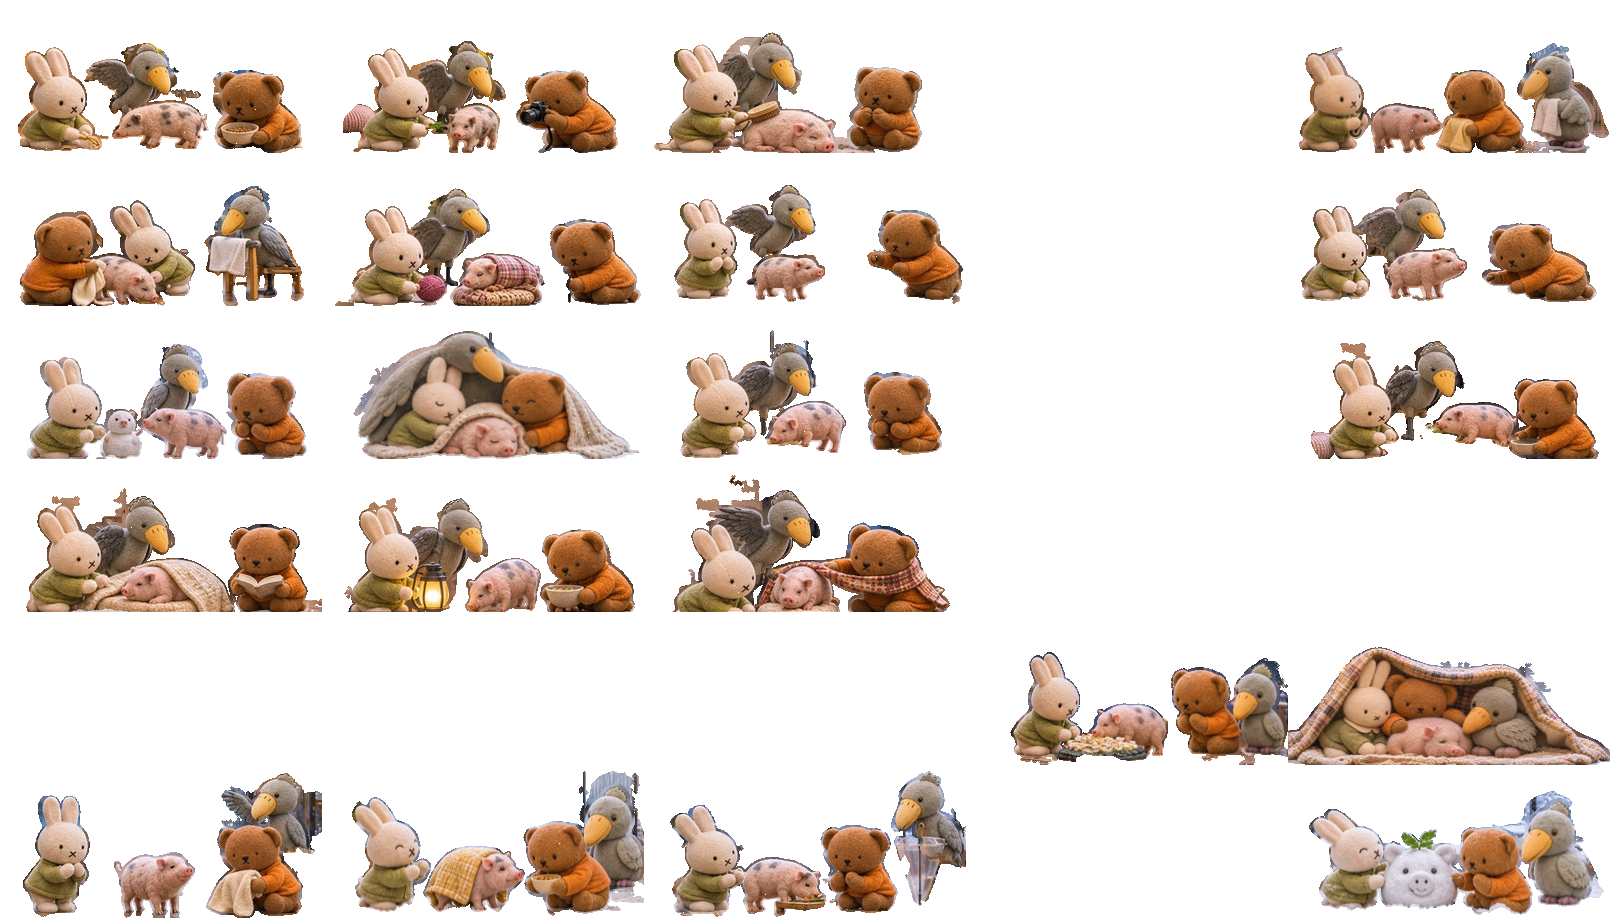
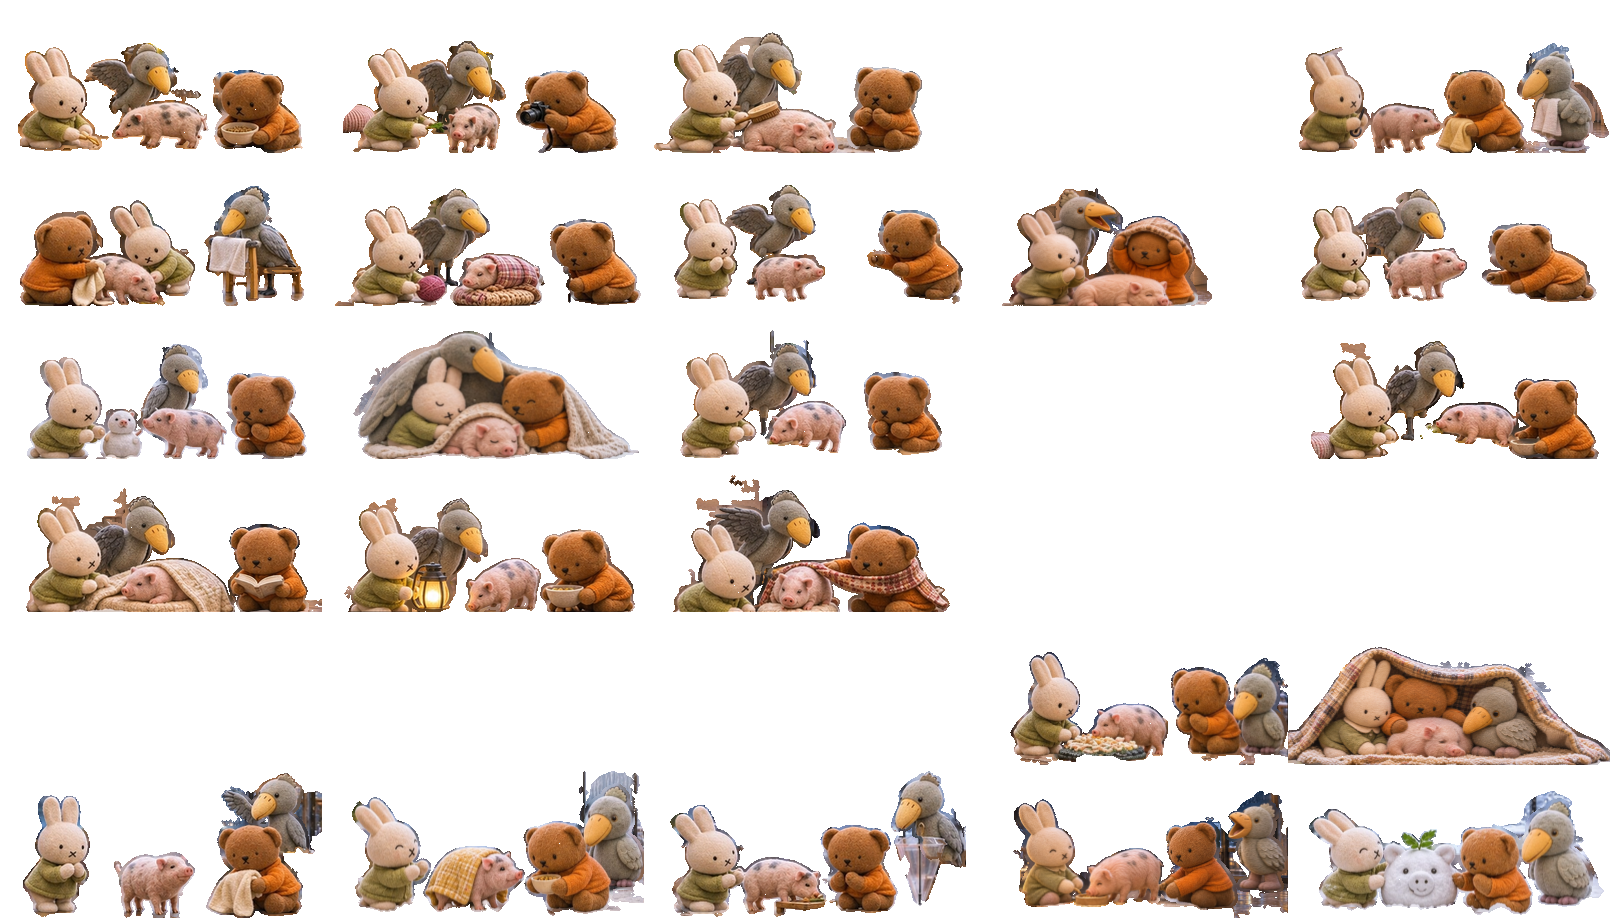
Publish 2975 verified travel weather illustrations

Changed region(s): [[0.6211, 0.854, 0.8075, 1.0], [0.6211, 0.183, 0.7764, 0.3355]]

diff --git a/trip-scenery.js b/trip-scenery.js
@@ -107,15 +107,15 @@ const TripScenery = (() => {
     "chitose":{"rev":"2c0921813e0d","tiles":[7]},
     "chitose-b":{"rev":"5897703c015b","tiles":[0,1,2,3,4,5,6,7,8,9,10,11,12,13,14,15,16,17,18,19,20,21,22,23,24,25,26,27,28,29]},
     "cranes":{"rev":"9dbd65e7429f","tiles":[14]},
-    "cranes-b":{"rev":"837263592452","tiles":[0,1,2,3,4,5,6,7,8,9,10,11,12,13,14,15,16,18,19,20,22,23,24,25,26,27,28,29]},
+    "cranes-b":{"rev":"4de6cace1270","tiles":[0,1,2,3,4,5,6,7,8,9,10,11,12,13,14,15,16,17,18,19,20,21,22,23,24,25,26,27,28,29]},
     "default":{"rev":"63680098c4db","tiles":[1,7,9,13,16]},
     "default-b":{"rev":"2a38596f457e","tiles":[0,1,2,3,4,5,6,7,8,9,10,11,12,13,14,15,17,18,19,20,21,22,23,26,28,29]},
     "farm":{"rev":"2758f42d4239","tiles":[4,7,8,11,13]},
     "farm-b":{"rev":"979350bb41c0","tiles":[0,1,2,3,4,5,6,7,8,9,10,11,12,13,14,15,16,17,18,19,20,21,22,23,24,25,26,27,28,29]},
     "furano":{"rev":"8d89f832a68d","tiles":[14]},
-    "furano-b":{"rev":"464f6e2499f7","tiles":[1,2,3,4,5,6,7,8,9,10,11,12,13,15,16,17,18,19,20,21,22,23,24,25,26,27,28]},
+    "furano-b":{"rev":"52c341b967ea","tiles":[0,1,2,3,4,5,6,7,8,9,10,11,12,13,14,15,16,17,18,19,20,21,22,23,24,25,26,27,28,29]},
     "haneda":{"rev":"627adc008342","tiles":[4,10,12]},
-    "haneda-b":{"rev":"179e59ead46d","tiles":[0,1,2,3,4,5,6,9,10,11,12,13,15,16,17,19,20,21,22,23,24,25,26,28,29]},
+    "haneda-b":{"rev":"4b766e8f2b7e","tiles":[0,1,2,3,4,5,6,9,10,11,12,13,14,15,16,17,19,20,21,22,23,24,25,26,28,29]},
     "hkairport":{"rev":"811bca323825","tiles":[1]},
     "hkairport-b":{"rev":"40f4251a35a7","tiles":[0,1,2,3,4,5,6,7,9,10,11,12,13,14,15,16,17,18,19,20,21,22,23,24,25,26,27,28,29]},
     "hongkong":{"rev":"1c5206374d36","tiles":[1,3,13]},
@@ -125,13 +125,13 @@ const TripScenery = (() => {
     "kushiro":{"rev":"ba38cfd09b0c","tiles":[0,3,7,16,18,19]},
     "kushiro-b":{"rev":"ebb67b2e06f4","tiles":[0,1,2,3,4,5,6,7,8,9,10,11,12,13,14,15,16,17,18,19,20,21,22,23,24,25,26,27,28,29]},
     "kussharo":{"rev":"93c2e99f0902","tiles":[4,7]},
-    "kussharo-b":{"rev":"700f16087a49","tiles":[0,1,2,3,4,5,6,7,8,9,10,11,12,13,14,15,16,18,19,20,21,22,23,24,25,26,27,28,29]},
+    "kussharo-b":{"rev":"9944c161d983","tiles":[0,1,2,3,4,5,6,7,8,9,10,11,12,13,14,15,16,17,18,19,20,21,22,23,24,25,26,27,28,29]},
     "marsh":{"rev":"06ee2357488e","tiles":[4,10]},
     "marsh-b":{"rev":"34a770e3b67f","tiles":[0,1,2,3,5,6,7,8,10,12,13,14,15,16,18,19,20,21,22,23,24,25,26,28,29]},
     "moere":{"rev":"a93c0904ed41","tiles":[1,4,7,14,17]},
     "moere-b":{"rev":"e53cc7e00f9a","tiles":[0,1,2,3,4,5,6,7,8,9,10,11,12,13,14,15,16,17,18,19,20,21,22,24,25,26,27,28]},
     "narita":{"rev":"8975a1809016","tiles":[11,12,15]},
-    "narita-b":{"rev":"9d28ac20aee4","tiles":[0,2,3,4,5,6,7,8,9,10,11,12,14,15,18,20,22,23,24,25,26,27,28,29]},
+    "narita-b":{"rev":"fae280164689","tiles":[0,2,3,4,5,6,7,8,9,10,11,12,13,14,15,18,20,22,23,24,25,26,27,28,29]},
     "obihiro":{"rev":"1c28bd332a3d","tiles":[7,13,18]},
     "obihiro-b":{"rev":"321af68bc5af","tiles":[0,1,7,9,10,11,12,13,14,15,17,18,19,20,21,22,23,24,25,26,27,28]},
     "otaru":{"rev":"3791dd540955","tiles":[9]},
@@ -139,11 +139,11 @@ const TripScenery = (() => {
     "roppongi":{"rev":"ee08e606e29f","tiles":[12]},
     "roppongi-b":{"rev":"227d141bdd86","tiles":[1,2,3,4,5,6,7,8,9,10,11,12,13,14,15,16,18,20,21,22,23,26,27,28,29]},
     "rusutsu":{"rev":"15835914c6d3","tiles":[7,11,13,16,18]},
-    "rusutsu-b":{"rev":"4d9885ba3316","tiles":[0,2,3,4,5,6,8,9,12,13,14,15,17,19,22,25,27,29]},
+    "rusutsu-b":{"rev":"e7a5014ac2b8","tiles":[0,2,3,4,5,6,8,9,12,13,14,15,16,17,19,22,25,27,29]},
     "sapporo":{"rev":"e925743f436f","tiles":[9]},
     "sapporo-b":{"rev":"5740a0a2757d","tiles":[0,5,6,7,8,9,10,11,13,14,15,17,18,19,21,22,23,24,25,26,27,28,29]},
     "spot-027c9d1e1":{"rev":"ffc74a33bb42","tiles":[0,9,16]},
-    "spot-027c9d1e1-b":{"rev":"3d33059926cc","tiles":[0,1,2,3,6,7,8,9,10,11,12,13,14,15,16,17,18,19,20,21,22,24,25,26,27,29]},
+    "spot-027c9d1e1-b":{"rev":"086938d54552","tiles":[0,1,2,3,5,6,7,8,9,10,11,12,13,14,15,16,17,18,19,20,21,22,24,25,26,27,29]},
     "spot-06158d8b5":{"rev":"a04051825e6b","tiles":[10,12,13]},
     "spot-06158d8b5-b":{"rev":"43ece873eb3f","tiles":[1,2,3,4,5,7,8,9,10,12,13,15,16,17,18,19,20,21,22,23,25,26,28,29]},
     "spot-10e7818ff":{"rev":"b81ab9cee190","tiles":[7]},
@@ -164,9 +164,9 @@ const TripScenery = (() => {
     "spot-269608d5a":{"rev":"fe0e7d68ff92","tiles":[2,14]},
     "spot-269608d5a-b":{"rev":"90e6aee6142c","tiles":[1,4,5,6,7,8,9,12,13,15,16,18,19,20,21,22,23,26,27,28]},
     "spot-29d2293a9":{"rev":"ff2c5802e46d","tiles":[9]},
-    "spot-29d2293a9-b":{"rev":"20e31dbd697c","tiles":[3,4,5,6,7,9,10,11,12,13,14,15,16,17,18,19,20,22,23,24,25,26,27,28,29]},
+    "spot-29d2293a9-b":{"rev":"fd8181632a91","tiles":[3,4,5,6,7,9,10,11,12,13,14,15,16,17,18,19,20,21,22,23,24,25,26,27,28,29]},
     "spot-2e38dcad4":{"rev":"de1a9beaeb6c","tiles":[11,12]},
-    "spot-2e38dcad4-b":{"rev":"61fe9c4ba783","tiles":[0,1,2,4,5,6,7,9,10,11,12,14,15,16,17,23,24,25,26,27,29]},
+    "spot-2e38dcad4-b":{"rev":"dc7043261259","tiles":[0,1,2,4,5,6,7,8,9,10,11,12,14,15,16,17,23,24,25,26,27,28,29]},
     "spot-31c4556cc":{"rev":"a81956a4427b","tiles":[13,14]},
     "spot-31c4556cc-b":{"rev":"97cc430c4588","tiles":[0,1,2,3,4,5,6,7,8,9,10,11,12,13,14,15,16,17,18,19,20,21,22,23,24,25,26,27,28,29]},
     "spot-330159020-b":{"rev":"27f5305b8a80","tiles":[0,7,8,10,17,22,25,29]},
@@ -175,11 +175,11 @@ const TripScenery = (() => {
     "spot-3c6782d38":{"rev":"95e40e1907f0","tiles":[13,14]},
     "spot-3c6782d38-b":{"rev":"25bb671c7c46","tiles":[0,1,2,3,4,5,6,7,8,9,10,11,12,13,14,15,16,17,18,19,20,21,22,23,24,25,27,28,29]},
     "spot-3f5a2f8fc":{"rev":"f086f04ef697","tiles":[0,1,2,3,7,13,16,17,18,19]},
-    "spot-3f5a2f8fc-b":{"rev":"8f804bb38c8f","tiles":[0,1,3,4,5,6,7,8,9,10,11,12,13,14,15,16,17,18,19,20,21,22,23,24,25,26,27,28,29]},
+    "spot-3f5a2f8fc-b":{"rev":"89f176ae1bd1","tiles":[0,1,2,3,4,5,6,7,8,9,10,11,12,13,14,15,16,17,18,19,20,21,22,23,24,25,26,27,28,29]},
     "spot-3fb8e59e3":{"rev":"c785d47e5bd2","tiles":[0,3,4,5,6,7,8,10,11,12,14,15,16,19]},
-    "spot-3fb8e59e3-b":{"rev":"fc7726badd6c","tiles":[0,1,2,3,4,5,6,7,8,9,10,11,12,13,14,15,16,17,18,19,20,21,22,23,24,25,26,28,29]},
+    "spot-3fb8e59e3-b":{"rev":"760b3e167f69","tiles":[0,1,2,3,4,5,6,7,8,9,10,11,12,13,14,15,16,17,18,19,20,21,22,23,24,25,26,27,28,29]},
     "spot-41089f741":{"rev":"8e1833296fca","tiles":[10]},
-    "spot-41089f741-b":{"rev":"e7aa3cd89bb8","tiles":[0,1,2,4,5,8,9,10,11,12,13,14,15,16,17,18,19,20,21,24,25,26,27,28]},
+    "spot-41089f741-b":{"rev":"89379b5a65b6","tiles":[0,1,2,3,4,5,8,9,10,11,12,13,14,15,16,17,18,19,20,21,24,25,26,27,28]},
     "spot-4238daf29":{"rev":"988d0f0b54b1","tiles":[0,2,4,5,6,7,8,9,10,11,12,13,14,15,17,18]},
     "spot-4238daf29-b":{"rev":"9ce5ea3f7159","tiles":[0,1,2,3,4,5,6,7,8,9,10,11,12,13,14,15,16,17,18,19,20,21,22,23,24,25,26,27,28,29]},
     "spot-4398c48a7":{"rev":"717ad5046dbd","tiles":[9,11,15]},
@@ -191,13 +191,15 @@ const TripScenery = (() => {
     "spot-48ff7da1d-b":{"rev":"b4345ead59bb","tiles":[0,1,2,4,5,6,7,8,9,10,11,12,13,21,26,27,29]},
     "spot-495afce62":{"rev":"0f11bee40ad2","tiles":[0,3,4,5,6,7,8,10,11,12,14,16,18,19]},
     "spot-495afce62-b":{"rev":"2c7b087412cb","tiles":[0,1,2,3,4,5,7,8,9,10,11,12,13,14,15,16,17,18,19,20,21,22,23,24,25,26,27,28,29]},
-    "spot-49779f027-b":{"rev":"bc2466217452","tiles":[3,22,23]},
+    "spot-49779f027-b":{"rev":"0b85585c7998","tiles":[3,14,22,23]},
     "spot-51652ebdc":{"rev":"adf2df6853ff","tiles":[9,13]},
     "spot-51652ebdc-b":{"rev":"bf53ba52ca8f","tiles":[5,6]},
     "spot-54f5ce43e":{"rev":"7b3805db985d","tiles":[16]},
     "spot-54f5ce43e-b":{"rev":"d91a96483961","tiles":[1,2,4,5,6,7,8,9,12,14,16,18,20,23,25,26,27,28]},
     "spot-569b08bba":{"rev":"081b3124469c","tiles":[4,5,7,8,10,12,14]},
-    "spot-569b08bba-b":{"rev":"06b8ca3341b3","tiles":[0,1,2,3,4,5,6,8,9,10,11,12,13,14,15,16,17,18,19,20,21,22,23,24,25,26,27,28,29]},
+    "spot-569b08bba-b":{"rev":"97df845a9e5d","tiles":[0,1,2,3,4,5,6,7,8,9,10,11,12,13,14,15,16,17,18,19,20,21,22,23,24,25,26,27,28,29]},
+    "spot-5724c004b":{"rev":"037f832574b0","tiles":[0,3,4,6,7,8,9,11,13,15,17]},
+    "spot-5724c004b-b":{"rev":"79f129e3231c","tiles":[0,2,4,6,8,10,13,16,19,21,23,25,28]},
     "spot-59c3d0ebd":{"rev":"7f8a63b309a1","tiles":[2,9,11,13,17]},
     "spot-5df3b4a31":{"rev":"99a3dba5bf36","tiles":[4]},
     "spot-627afeabe":{"rev":"852212a79865","tiles":[0,3,4,6,7,8,10,11,12,13,14,16,19]},
@@ -215,23 +217,23 @@ const TripScenery = (() => {
     "spot-79865f593":{"rev":"68a20e51f5c4","tiles":[0,8,9,12,13,16]},
     "spot-79865f593-b":{"rev":"8522d3815c0f","tiles":[0,1,2,3,4,5,6,7,8,9,10,12,13,14,15,16,17,18,19,20,21,22,23,25,26,27,28,29]},
     "spot-7c1b27ec2":{"rev":"a793d4916773","tiles":[4,7]},
-    "spot-7c1b27ec2-b":{"rev":"713fd4c9e36d","tiles":[0,1,2,3,4,5,6,7,8,9,10,12,13,14,15,16,17,18,19,20,21,22,23,24,25,26,27,28,29]},
+    "spot-7c1b27ec2-b":{"rev":"22e7666aa350","tiles":[0,1,2,3,4,5,6,7,8,9,10,11,12,13,14,15,16,17,18,19,20,21,22,23,24,25,26,27,28,29]},
     "spot-7fef43934":{"rev":"8d9ca06408b6","tiles":[9,13,18]},
     "spot-7fef43934-b":{"rev":"953d87069e7b","tiles":[0,1,2,3,4,5,6,7,8,9,10,11,12,13,14,15,16,17,18,19,20,21,22,23,24,25,26,27,28,29]},
     "spot-83a57353c":{"rev":"e5d2d321ff33","tiles":[7,13]},
     "spot-83a57353c-b":{"rev":"39bcc56641c9","tiles":[0,1,2,3,4,5,6,7,8,9,10,11,12,13,14,15,16,18,19,20,21,22,23,24,25,26,27,28,29]},
     "spot-86577f3e8":{"rev":"cf23b9d582dc","tiles":[7]},
-    "spot-86577f3e8-b":{"rev":"f1c69ac8fd1b","tiles":[0,3,5,6,7,9,10,11,12,20,22,26,29]},
+    "spot-86577f3e8-b":{"rev":"7e430be3a556","tiles":[0,3,5,6,7,9,10,11,12,17,20,22,26,29]},
     "spot-86b29bbb2":{"rev":"be6334feaaa8","tiles":[7,13]},
     "spot-86b29bbb2-b":{"rev":"a7dd03db5fd2","tiles":[0,1,2,3,4,5,6,7,8,9,10,12,14,15,16,17,18,19,20,21,22,23,24,26,28,29]},
     "spot-881d1794c":{"rev":"a6f83018e614","tiles":[13]},
     "spot-881d1794c-b":{"rev":"4266cd3fe275","tiles":[0,1,2,3,4,5,6,8,10,12,13,14,15,18,19,21,23,25,26,27,29]},
     "spot-885eb86b5":{"rev":"c488ce68dc31","tiles":[13]},
-    "spot-885eb86b5-b":{"rev":"adffed15b52a","tiles":[0,3,5,9,11,14,19,23,24,25,29]},
+    "spot-885eb86b5-b":{"rev":"1e6e7f0ea093","tiles":[0,3,5,9,11,14,17,19,23,24,25,29]},
     "spot-89ba4f10d":{"rev":"dfea1c50ecc3","tiles":[4,7,12]},
     "spot-89ba4f10d-b":{"rev":"56175543db8e","tiles":[0,1,2,3,4,5,6,7,8,9,10,11,12,13,14,15,16,17,18,19,21,22,23,24,25,26,27,28,29]},
     "spot-8f335641b":{"rev":"922d7a63f424","tiles":[7,10,13]},
-    "spot-8f335641b-b":{"rev":"759348ac3c1c","tiles":[0,2,3,4,5,6,7,8,9,10,11,12,13,14,18,21,22,23,24,25,26,27,28,29]},
+    "spot-8f335641b-b":{"rev":"601f00569e6a","tiles":[0,2,3,4,5,6,7,8,9,10,11,12,13,14,15,16,18,21,22,23,24,25,26,27,28,29]},
     "spot-90e680279":{"rev":"89c19726ad4c","tiles":[4,6,9,10,11,14,19]},
     "spot-90e680279-b":{"rev":"ba0f928fc66c","tiles":[1,2,4,6,7,8,9,12,13,14,15,16,17,18,19,20,21,22,23,25,26,27,28,29]},
     "spot-986c13ff5":{"rev":"ce3ac4cbcc9f","tiles":[0,3,7,9,13,16]},
@@ -239,7 +241,7 @@ const TripScenery = (() => {
     "spot-9f53c40a2-b":{"rev":"330a557a80c6","tiles":[0,1,2,3,4,5,6,7,8,9,10,11,12,13,14,15,16,17,18,19,21,23,25,26,27,28,29]},
     "spot-a52910691":{"rev":"9fc6c3b9342b","tiles":[0,3,4,6,7,10,13,14,16,19]},
     "spot-a52910691-b":{"rev":"3ac24ee02818","tiles":[0,1,2,3,4,5,6,7,8,9,10,11,12,13,14,15,16,18,19,20,21,22,23,24,25,26,27,28]},
-    "spot-a7566ef75":{"rev":"fc4e8d80482b","tiles":[0,3,4,7,8,11,12,13,14,15,16,18,19]},
+    "spot-a7566ef75":{"rev":"bd773f04f1ef","tiles":[0,2,3,4,7,8,11,12,13,14,15,16,18,19]},
     "spot-a7566ef75-b":{"rev":"ab1d13564404","tiles":[0,1,2,3,4,5,6,7,8,9,10,12,13,14,15,16,17,18,19,20,21,22,23,24,25,26,27,28,29]},
     "spot-ac4485fba":{"rev":"20045b428de9","tiles":[7,13]},
     "spot-ac4485fba-b":{"rev":"3dcd058fb25c","tiles":[0,1,2,4,5,6,7,8,9,10,12,13,14,15,16,18,19,20,21,22,23,24,25,28,29]},
@@ -255,12 +257,12 @@ const TripScenery = (() => {
     "spot-c1f3498b7":{"rev":"29ede418659d","tiles":[7,13]},
     "spot-c1f3498b7-b":{"rev":"651555fb9199","tiles":[3,8,17,22,29]},
     "spot-c6a0e8931":{"rev":"b2aaa5008163","tiles":[1,4,8,11,12,17,18]},
-    "spot-c6a0e8931-b":{"rev":"70b91002fec6","tiles":[0,1,2,3,4,5,6,7,8,11,12,13,14,15,19,21,25,26,27,29]},
+    "spot-c6a0e8931-b":{"rev":"90cf8a86d11c","tiles":[0,1,2,3,4,5,6,7,8,11,12,13,14,15,16,19,21,25,26,27,29]},
     "spot-c8601530f":{"rev":"7312cb0824e0","tiles":[5]},
     "spot-cb578c594":{"rev":"41d7fa1190c7","tiles":[7,8,13]},
-    "spot-cb578c594-b":{"rev":"5a71c3e44214","tiles":[0,1,2,4,5,6,7,8,9,10,11,12,13,14,15,16,18,19,20,21,22,23,25,26,27,28]},
+    "spot-cb578c594-b":{"rev":"df1bcde95f81","tiles":[0,1,2,4,5,6,7,8,9,10,11,12,13,14,15,16,18,19,20,21,22,23,25,26,27,28,29]},
     "spot-cc31e7e93":{"rev":"8600a27d27de","tiles":[4,5,9,10,12,15]},
-    "spot-cc31e7e93-b":{"rev":"4cfed741bb79","tiles":[0,1,2,3,4,5,6,7,8,9,10,12,13,14,15,16,17,18,19,20,21,22,24,25,26,27,28,29]},
+    "spot-cc31e7e93-b":{"rev":"db6f46ebb57f","tiles":[0,1,2,3,4,5,6,7,8,9,10,11,12,13,14,15,16,17,18,19,20,21,22,23,24,25,26,27,28,29]},
     "spot-ceed47a35":{"rev":"3ae5b499bf04","tiles":[1,7,12,13]},
     "spot-ceed47a35-b":{"rev":"50ac357f3699","tiles":[0,1,2,3,4,5,6,7,8,9,10,11,12,13,14,15,16,17,18,19,20,21,22,23,24,25,26,27,28,29]},
     "spot-d1c54f9ac":{"rev":"253961aa68bc","tiles":[4,7,9]},
@@ -274,7 +276,7 @@ const TripScenery = (() => {
     "spot-e2b4a3c27":{"rev":"32222fb0d2bc","tiles":[0,3,5,7,9,10,12,13,15,16,18]},
     "spot-e2b4a3c27-b":{"rev":"6f0a04eed37d","tiles":[0,1,2,3,4,5,6,7,8,9,10,12,13,14,15,16,18,19,20,21,22,23,24,25,26,27,28,29]},
     "spot-e3447714a":{"rev":"efe1e24c9597","tiles":[8,11,13]},
-    "spot-e3447714a-b":{"rev":"8e2e0c228685","tiles":[0,1,2,3,5,6,8,9,10,19,20,23,24,25,26,27,28,29]},
+    "spot-e3447714a-b":{"rev":"b214068ca9c3","tiles":[0,1,2,3,4,5,6,8,9,10,19,20,23,24,25,26,27,28,29]},
     "spot-e4f890e25":{"rev":"02de6256fdd0","tiles":[0,2,3,4,5,6,7,8,9,10,11,12,13,14,16,18,19]},
     "spot-e4f890e25-b":{"rev":"2380bfea87f6","tiles":[0,1,2,3,4,5,6,7,8,9,10,11,12,13,14,15,16,17,18,19,20,21,22,23,24,25,26,27,28,29]},
     "spot-e5fd09f2f-b":{"rev":"b2a653349381","tiles":[0,1,2,3,4,5,6,7,8,9,10,11,12,13,14,15,16,17,19,20,21,22,23,24,25,26,27,28,29]},
@@ -283,7 +285,7 @@ const TripScenery = (() => {
     "spot-e72214aac":{"rev":"a29c666aca8b","tiles":[2,3]},
     "spot-e72214aac-b":{"rev":"087d2b6ab075","tiles":[2,3,8,13,20,21,25,29]},
     "spot-edb6dfccc":{"rev":"e8fe0ef39b76","tiles":[0,14,19]},
-    "spot-edb6dfccc-b":{"rev":"57f3c7dafc18","tiles":[0,1,3,4,6,7,8,9,10,12,13,14,15,16,17,18,19,20,21,22,23,25,26,27,28,29]},
+    "spot-edb6dfccc-b":{"rev":"e11aa82f4ecb","tiles":[0,1,2,3,4,5,6,7,8,9,10,12,13,14,15,16,17,18,19,20,21,22,23,25,26,27,28,29]},
     "spot-eefebbe06":{"rev":"ad9b5aa6f120","tiles":[18]},
     "spot-eefebbe06-b":{"rev":"c272f16f15ba","tiles":[0,1,3,4,5,6,7,8,9,10,14,16,18,19,20,21,23,24,27,28]},
     "spot-efe273a59":{"rev":"474752faafa8","tiles":[9,11,12,13]},
@@ -301,11 +303,11 @@ const TripScenery = (() => {
     "tokachi":{"rev":"157a9d7fb85c","tiles":[1,2,7]},
     "tokachi-b":{"rev":"571d05f510e3","tiles":[0,1,2,3,4,5,6,7,8,9,10,11,12,13,14,15,16,17,18,19,20,21,22,23,24,25,26,27,28]},
     "tokyo":{"rev":"6da641a43c64","tiles":[7,11]},
-    "tokyo-b":{"rev":"c564c98d4692","tiles":[0,1,2,4,5,6,7,8,9,10,12,13,14,15,16,17,18,20,22,23,25,26,27,28,29]},
+    "tokyo-b":{"rev":"64d5a055f4ba","tiles":[0,1,2,4,5,6,7,8,9,10,11,12,13,14,15,16,17,18,20,22,23,25,26,27,28,29]},
     "tomamu":{"rev":"914c9739a3e3","tiles":[4,14]},
     "tomamu-b":{"rev":"b776dfff67ec","tiles":[0,1,2,3,4,5,6,7,8,9,10,12,13,14,15,16,17,18,19,20,21,23,24,25,27,28,29]},
     "toya":{"rev":"28205ef6262d","tiles":[7]},
-    "toya-b":{"rev":"020a28831ff1","tiles":[0,1,2,3,4,5,6,7,9,10,12,13,14,15,16,17,18,20,21,22,23,25,26,27]},
+    "toya-b":{"rev":"ee93b4bbd14e","tiles":[0,1,2,3,4,5,6,7,9,10,12,13,14,15,16,17,18,20,21,22,23,25,26,27,29]},
     "ueno-b":{"rev":"6ef393cc0af4","tiles":[2,3,4,10,12,17,20,22,27]}
   };
   function atlasPath(stem){

diff --git a/index.html b/index.html
@@ -1,5 +1,5 @@
 <!doctype html>
-<html lang="zh-HK" data-build="20261124-v78">
+<html lang="zh-HK" data-build="20261124-v79">
 <head>
 <meta charset="utf-8">
 <meta name="viewport" content="width=device-width, initial-scale=1, viewport-fit=cover">
@@ -1116,7 +1116,7 @@
       <button data-act="trips">切換旅程</button>
       <button data-act="settings">設定</button>
       <div class="verrow">
-        <div id="ver" data-build="20261124-v78" style="padding-top:0">v78</div>
+        <div id="ver" data-build="20261124-v79" style="padding-top:0">v79</div>
         <button class="forceup" data-act="forceup" type="button">強制更新</button>
       </div>
     </div>
@@ -1182,7 +1182,7 @@
   var SBK = 'sb_publishable_YROUDaSxinrbHH4g7q8gmQ_4za7Ohfj';
   var TABLE='trip_log', AI_URL=SB+'/functions/v1/trip-ai';
   var APP='trip', SESS_KEY='appSession.trip', AUTH=SB+'/functions/v1/app-auth';
-  var APP_VER='20261124-v78';
+  var APP_VER='20261124-v79';
 
   // kind：類型定義（icon、名、有冇座標、預設時間 label）
   var KINDS={
